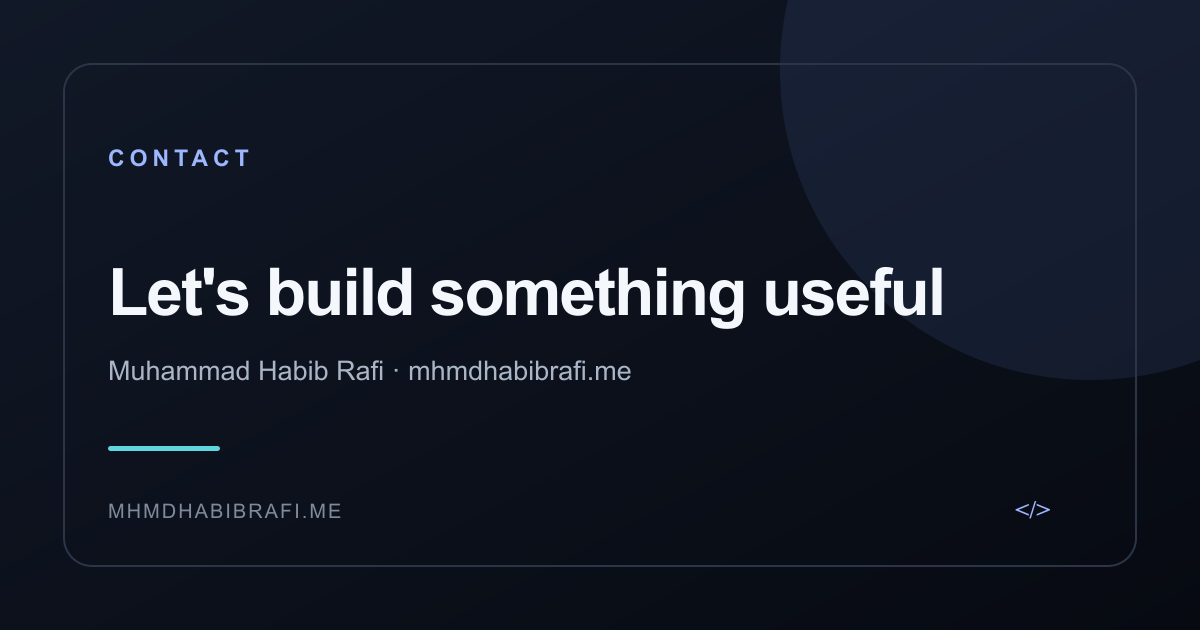
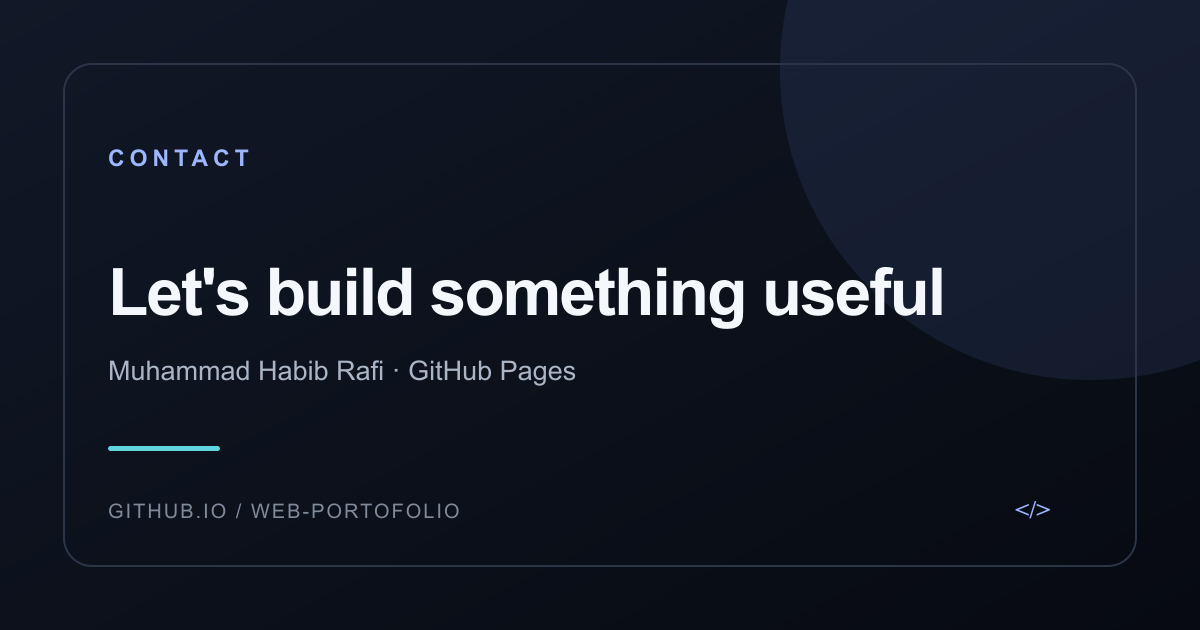
Fix GitHub Pages project base path

Changed region(s): [[0.0925, 0.7841, 0.37, 0.8444], [0.3392, 0.573, 0.5242, 0.6032]]

diff --git a/src/utils/paths.ts b/src/utils/paths.ts
@@ -1,0 +1,15 @@
+const configuredBase = import.meta.env.BASE_URL.replace(/\/+$/, '');
+
+export const basePath = configuredBase === '' || configuredBase === '/' ? '' : configuredBase;
+
+export const withBase = (path: string) => {
+  if (!path.startsWith('/') || path.startsWith('//') || !basePath) return path;
+  if (path === basePath || path.startsWith(`${basePath}/`)) return path;
+  return path === '/' ? `${basePath}/` : `${basePath}${path}`;
+};
+
+export const withoutBase = (pathname: string) => {
+  if (!basePath) return pathname;
+  if (pathname === basePath || pathname === `${basePath}/`) return '/';
+  return pathname.startsWith(`${basePath}/`) ? pathname.slice(basePath.length) : pathname;
+};

diff --git a/src/data/profile.ts b/src/data/profile.ts
@@ -25,7 +25,7 @@ export const profile: Profile = {
   country: 'Indonesia',
   university: 'Universitas Islam Negeri Sultan Syarif Kasim Riau',
   major: 'Information Systems',
-  domain: 'https://mhmdhabibrafi.me',
+  domain: 'https://mhmdhabibrafi.github.io/web-portofolio',
   summary:
     'I build web applications, backend services, APIs, and operational systems with a focus on reliability, usability, and maintainable implementation.',
   email: 'mhmdhabibrafi@gmail.com',

diff --git a/DEPLOYMENT.md b/DEPLOYMENT.md
@@ -1,12 +1,26 @@
 # Deployment Guide
 
-This site is configured for static deployment to GitHub Pages using the custom domain `mhmdhabibrafi.me`.
+This site is configured for static deployment at `https://mhmdhabibrafi.github.io/web-portofolio/`.
 
-## 1. Prepare the repository
+## GitHub Pages
 
-Push the project to GitHub with `package-lock.json` committed. The deployment workflow runs on pushes to the `main` branch and can also be started manually from the Actions tab.
+1. Open the repository **Settings → Pages**.
+2. Set **Build and deployment → Source** to **GitHub Actions**.
+3. Push to `main` or run **Deploy to GitHub Pages** from the Actions tab.
+4. Wait until both the build and deploy jobs are successful.
 
-Before pushing, validate locally:
+The workflow validates, builds, audits, uploads, and deploys the static Astro output. It uses read-only repository access plus the `pages: write` and `id-token: write` permissions required by GitHub Pages.
+
+## Project-site path
+
+Astro uses:
+
+- Site origin: `https://mhmdhabibrafi.github.io`
+- Base path: `/web-portofolio`
+
+Keep the base path while the website is hosted at the repository URL. It ensures styles, images, scripts, localized routes, canonical links, and social images resolve from the correct location. This deployment does not use a `CNAME` file.
+
+## Local validation
 
 ```bash
 npm ci
@@ -15,78 +29,26 @@ npm run build
 npm run check:seo
 ```
 
-## 2. Configure GitHub Pages
+The generated `dist/` directory is deployment output and must not be committed.
 
-1. Open the repository on GitHub.
-2. Go to **Settings → Pages**.
-3. Under **Build and deployment**, select **GitHub Actions** as the source.
-4. Push to `main` or run **Deploy to GitHub Pages** manually.
-5. Confirm that both the build and deploy jobs complete successfully.
+## Google Search Console
 
-The workflow uses read-only repository access plus the `pages: write` and `id-token: write` permissions required for Pages deployment. It does not commit `dist`.
+After deployment:
 
-## 3. Configure the custom domain
-
-The source already contains `public/CNAME` with:
-
-```text
-mhmdhabibrafi.me
-```
-
-Astro's `site` value is `https://mhmdhabibrafi.me` and no repository `base` is configured.
-
-At the DNS provider, create the records GitHub currently documents for an apex domain. DNS endpoints can change, so copy the current values from the official [GitHub Pages custom-domain documentation](https://docs.github.com/en/pages/configuring-a-custom-domain-for-your-github-pages-site/about-custom-domains-and-github-pages) rather than relying on copied IP addresses in this repository.
-
-After DNS resolves:
-
-1. Return to **Settings → Pages**.
-2. Confirm the custom domain is `mhmdhabibrafi.me`.
-3. Wait for GitHub's DNS check to pass.
-4. Enable **Enforce HTTPS** when the option becomes available.
-5. Check both the apex domain and the HTTPS URL in a private browser window.
-
-Avoid adding a `base` path for the repository name while the custom apex domain is in use.
-
-## 4. Google Search Console
-
-1. Deploy the public HTTPS site.
-2. Add a Domain property for `mhmdhabibrafi.me` in Google Search Console.
-3. Add the TXT record Google supplies to the DNS zone.
-4. Complete verification after DNS propagation.
-5. Submit `https://mhmdhabibrafi.me/sitemap-index.xml`.
-6. Request indexing for the homepage and primary project case studies.
-7. Monitor Page Indexing, Core Web Vitals, and Search Performance.
-
-The optional `PUBLIC_GOOGLE_SITE_VERIFICATION` environment variable supports an HTML verification meta value, but the Domain property still uses DNS verification. Do not invent or commit a verification token.
-
-## 5. Updating content and assets
-
-- Project data: `src/content/projects/`
-- Shared profile data: `src/data/profile.ts`
-- Profile photo: `public/images/profile/`
-- Resume: `public/Muhammad-Habib-Rafi-CV.pdf`
-- Social image definitions: `scripts/generate-og.mjs`
-
-Every push should retain the production validation steps in the workflow.
+1. Add the URL-prefix property `https://mhmdhabibrafi.github.io/web-portofolio/`.
+2. Complete the verification method supplied by Google.
+3. Submit `https://mhmdhabibrafi.github.io/web-portofolio/sitemap-index.xml`.
 
 ## Troubleshooting
 
-### Build job fails
+### GitHub Pages displays README
 
-Run `npm ci`, `npm run check`, `npm run build`, and `npm run check:seo` locally using a supported Node.js version. Commit the lockfile whenever dependencies change.
+The Pages source is still **Deploy from a branch**. Change it to **GitHub Actions** and rerun the deployment workflow.
 
-### Custom domain returns a Pages error
+### The HTML appears without styles
 
-Confirm the repository Pages source is GitHub Actions, the latest deploy job succeeded, `dist/CNAME` was produced, and DNS matches GitHub's current documentation. DNS propagation may take time.
+Keep Astro's `base` set to `/web-portofolio`, rebuild, and redeploy. Missing base-path prefixes make the browser request assets from the account root.
 
-### Styles or links point to a repository subpath
+### Build fails
 
-Remove any `base` configuration. This project is designed for the custom apex domain, where routes begin at `/`.
-
-### Sitemap cannot be found
-
-Confirm the build generated `dist/sitemap-index.xml`, deploy the newest artifact, and check that `robots.txt` references the HTTPS custom-domain URL.
-
-### HTTPS is unavailable
-
-Wait for DNS verification and certificate issuance to complete, then enable **Enforce HTTPS** in the Pages settings. Do not place an unrelated proxy in front of the domain while diagnosing certificate issuance.
+Run all local validation commands and commit `package-lock.json` whenever dependencies change.

diff --git a/README.md b/README.md
@@ -1,6 +1,6 @@
 # Muhammad Habib Rafi — Portfolio
 
-A production-oriented bilingual personal portfolio for Muhammad Habib Rafi, Full Stack Web Developer in Pekanbaru, Indonesia. The site is static, content-driven, accessible, and prepared for deployment to GitHub Pages at [mhmdhabibrafi.me](https://mhmdhabibrafi.me).
+A production-oriented bilingual personal portfolio for Muhammad Habib Rafi, Full Stack Web Developer in Pekanbaru, Indonesia. The site is static, content-driven, accessible, and deployed as a GitHub Pages project site at [mhmdhabibrafi.github.io/web-portofolio](https://mhmdhabibrafi.github.io/web-portofolio/).
 
 ## Tech stack
 
@@ -112,18 +112,18 @@ npm run check:seo
 
 The generated `dist/` directory is deployable as a static website and should not be committed.
 
-## GitHub Pages and custom domain
+## GitHub Pages deployment
 
 The workflow in `.github/workflows/deploy.yml` validates, builds, audits, uploads, and deploys the site on pushes to `main` or manual dispatch. Set the repository Pages source to **GitHub Actions**.
 
-`public/CNAME` contains `mhmdhabibrafi.me`, and Astro uses that same origin without a repository base path. See [DEPLOYMENT.md](./DEPLOYMENT.md) for DNS, HTTPS, Search Console, and troubleshooting steps.
+Astro uses the `/web-portofolio` base path required by GitHub project sites. See [DEPLOYMENT.md](./DEPLOYMENT.md) for activation, verification, and troubleshooting steps.
 
 ## Google Search Console
 
-After the domain is live:
+After the GitHub Pages deployment is live:
 
-1. Add a Domain property for `mhmdhabibrafi.me`.
-2. Complete the DNS TXT verification supplied by Google.
-3. Submit `https://mhmdhabibrafi.me/sitemap-index.xml`.
+1. Add a URL-prefix property for `https://mhmdhabibrafi.github.io/web-portofolio/`.
+2. Complete the verification method supplied by Google.
+3. Submit `https://mhmdhabibrafi.github.io/web-portofolio/sitemap-index.xml`.
 4. Request indexing for the homepage and principal project pages.
 5. Monitor Page Indexing, Core Web Vitals, and Search Performance.
